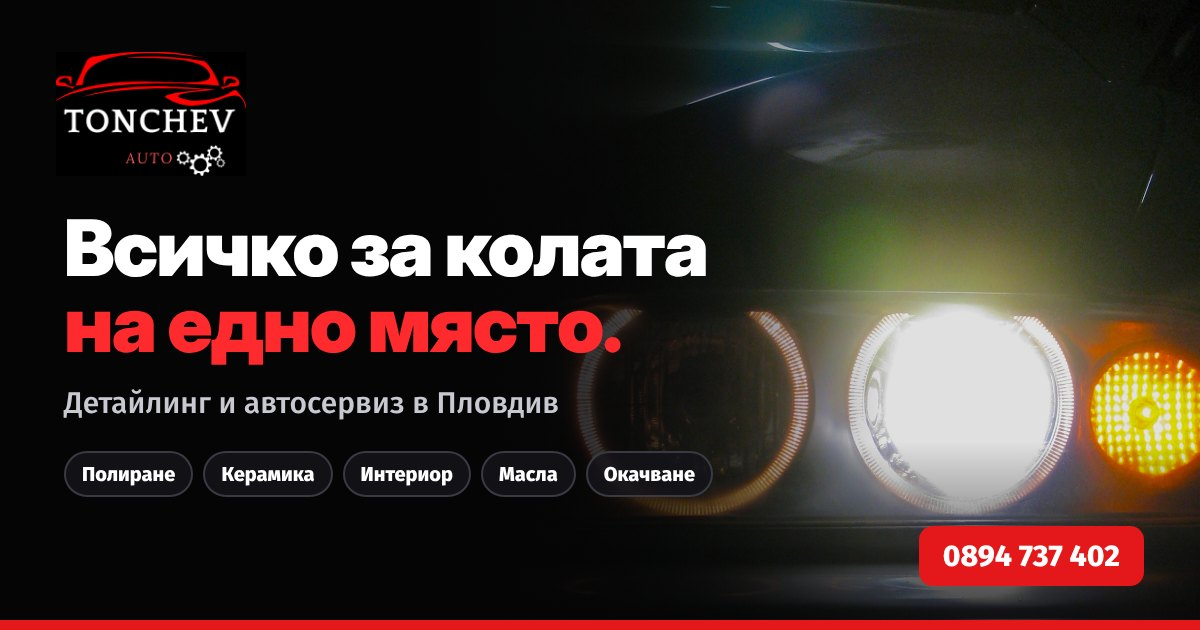
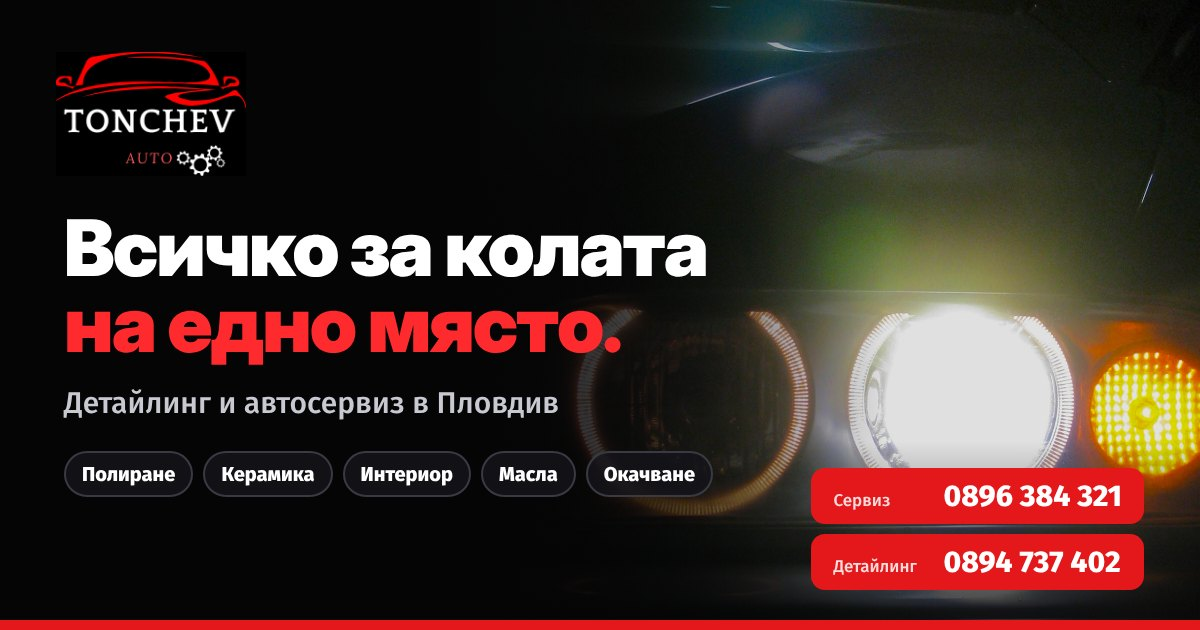
Снимка при споделяне: двата номера, сервизът отгоре
Claude-Session: https://claude.ai/code/session_01Wr225ZPwZKeiM3HkgTdgnP

Changed region(s): [[0.6475, 0.7238, 0.9558, 0.9651]]

diff --git a/index.html b/index.html
@@ -1,6 +1,6 @@
 <!DOCTYPE html>
 <html lang="bg"><head><meta charset="utf-8"><meta name="viewport" content="width=device-width, initial-scale=1, viewport-fit=cover"><meta name="theme-color" content="#000000"><link rel="icon" href="icons/favicon.png"><link rel="preload" as="image" href="full/hero3.jpg" fetchpriority="high"><link rel="apple-touch-icon" href="icons/apple-touch-icon.png"><meta name="description" content="Автодетайлинг и автосервиз в Пловдив: полиране, керамика, почистване на интериор, масла, ремъци и окачване. Запазете час онлайн.">
-<link rel="canonical" href="https://icotonchev.github.io/"><meta property="og:type" content="website"><meta property="og:site_name" content="Tonchev Auto"><meta property="og:locale" content="bg_BG"><meta property="og:url" content="https://icotonchev.github.io/"><meta property="og:title" content="Tonchev Auto – всичко за колата на едно място"><meta property="og:description" content="Автодетайлинг и автосервиз в Пловдив: полиране, керамика, интериор, масла, ремъци и окачване. Всичко за колата на едно място."><meta property="og:image" content="https://icotonchev.github.io/icons/og.jpg"><meta property="og:image:width" content="1200"><meta property="og:image:height" content="630"><meta property="og:image:alt" content="Tonchev Auto – детайлинг и автосервиз в Пловдив"><meta name="twitter:card" content="summary_large_image"><meta name="twitter:image" content="https://icotonchev.github.io/icons/og.jpg"><script type="application/ld+json">{"@context": "https://schema.org", "@type": "AutoRepair", "name": "Tonchev Auto", "alternateName": "Тончев ауто", "url": "https://icotonchev.github.io/", "image": "https://icotonchev.github.io/icons/og.jpg", "logo": "https://icotonchev.github.io/icons/logo.png", "description": "Автодетайлинг и автосервиз в Пловдив: полиране, керамика, интериор, масла, ремъци и окачване. Всичко за колата на едно място.", "telephone": "+359894737402", "priceRange": "€€", "paymentAccepted": "Cash", "currenciesAccepted": "EUR", "address": {"@type": "PostalAddress", "streetAddress": "ул. Кузман Шапкарев 20, ж.к. Христо Ботев – Юг", "addressLocality": "Пловдив", "postalCode": "4004", "addressCountry": "BG"}, "hasMap": "https://maps.app.goo.gl/euazdCBXEdwLSLtP6", "openingHoursSpecification": [{"@type": "OpeningHoursSpecification", "dayOfWeek": ["Monday", "Tuesday", "Wednesday", "Thursday", "Friday", "Saturday"], "opens": "09:00", "closes": "18:00"}], "contactPoint": [{"@type": "ContactPoint", "telephone": "+359894737402", "contactType": "customer service", "name": "Детайлинг"}, {"@type": "ContactPoint", "telephone": "+359896384321", "contactType": "customer service", "name": "Сервиз"}], "sameAs": ["https://www.instagram.com/tonchevauto", "https://www.facebook.com/share/14wnH7sxgSF/"], "makesOffer": [{"@type": "Offer", "itemOffered": {"@type": "Service", "name": "Полиране на боя"}}, {"@type": "Offer", "itemOffered": {"@type": "Service", "name": "Керамично покритие"}}, {"@type": "Offer", "itemOffered": {"@type": "Service", "name": "Полиране на фарове"}}, {"@type": "Offer", "itemOffered": {"@type": "Service", "name": "Пране и почистване на интериор"}}, {"@type": "Offer", "itemOffered": {"@type": "Service", "name": "Смяна на масло и филтри"}}, {"@type": "Offer", "itemOffered": {"@type": "Service", "name": "Смяна на ремъци"}}, {"@type": "Offer", "itemOffered": {"@type": "Service", "name": "Ремонт на окачване"}}]}</script><title>Tonchev Auto – детайлинг и сервиз Пловдив</title>
+<link rel="canonical" href="https://icotonchev.github.io/"><meta property="og:type" content="website"><meta property="og:site_name" content="Tonchev Auto"><meta property="og:locale" content="bg_BG"><meta property="og:url" content="https://icotonchev.github.io/"><meta property="og:title" content="Tonchev Auto – всичко за колата на едно място"><meta property="og:description" content="Автодетайлинг и автосервиз в Пловдив: полиране, керамика, интериор, масла, ремъци и окачване. Всичко за колата на едно място."><meta property="og:image" content="https://icotonchev.github.io/icons/og.jpg?v=2"><meta property="og:image:width" content="1200"><meta property="og:image:height" content="630"><meta property="og:image:alt" content="Tonchev Auto – детайлинг и автосервиз в Пловдив"><meta name="twitter:card" content="summary_large_image"><meta name="twitter:image" content="https://icotonchev.github.io/icons/og.jpg?v=2"><script type="application/ld+json">{"@context": "https://schema.org", "@type": "AutoRepair", "name": "Tonchev Auto", "alternateName": "Тончев ауто", "url": "https://icotonchev.github.io/", "image": "https://icotonchev.github.io/icons/og.jpg?v=2", "logo": "https://icotonchev.github.io/icons/logo.png", "description": "Автодетайлинг и автосервиз в Пловдив: полиране, керамика, интериор, масла, ремъци и окачване. Всичко за колата на едно място.", "telephone": "+359894737402", "priceRange": "€€", "paymentAccepted": "Cash", "currenciesAccepted": "EUR", "address": {"@type": "PostalAddress", "streetAddress": "ул. Кузман Шапкарев 20, ж.к. Христо Ботев – Юг", "addressLocality": "Пловдив", "postalCode": "4004", "addressCountry": "BG"}, "hasMap": "https://maps.app.goo.gl/euazdCBXEdwLSLtP6", "openingHoursSpecification": [{"@type": "OpeningHoursSpecification", "dayOfWeek": ["Monday", "Tuesday", "Wednesday", "Thursday", "Friday", "Saturday"], "opens": "09:00", "closes": "18:00"}], "contactPoint": [{"@type": "ContactPoint", "telephone": "+359894737402", "contactType": "customer service", "name": "Детайлинг"}, {"@type": "ContactPoint", "telephone": "+359896384321", "contactType": "customer service", "name": "Сервиз"}], "sameAs": ["https://www.instagram.com/tonchevauto", "https://www.facebook.com/share/14wnH7sxgSF/"], "makesOffer": [{"@type": "Offer", "itemOffered": {"@type": "Service", "name": "Полиране на боя"}}, {"@type": "Offer", "itemOffered": {"@type": "Service", "name": "Керамично покритие"}}, {"@type": "Offer", "itemOffered": {"@type": "Service", "name": "Полиране на фарове"}}, {"@type": "Offer", "itemOffered": {"@type": "Service", "name": "Пране и почистване на интериор"}}, {"@type": "Offer", "itemOffered": {"@type": "Service", "name": "Смяна на масло и филтри"}}, {"@type": "Offer", "itemOffered": {"@type": "Service", "name": "Смяна на ремъци"}}, {"@type": "Offer", "itemOffered": {"@type": "Service", "name": "Ремонт на окачване"}}]}</script><title>Tonchev Auto – детайлинг и сервиз Пловдив</title>
 <link rel="preconnect" href="https://fonts.googleapis.com"><link href="https://fonts.googleapis.com/css2?family=Unbounded:wght@500;700&family=Onest:wght@400;500;600;700&display=swap" rel="stylesheet">
 <style>:root{--bg:#060607;--sf:#0f0f11;--sf2:#17171b;--ln:#26262c;--ink:#f6f6f7;--mu:#a2a2ab;--red:#e4181b;--red2:#ff4a4d;color-scheme:dark;box-sizing:border-box}
 *{box-sizing:border-box}
